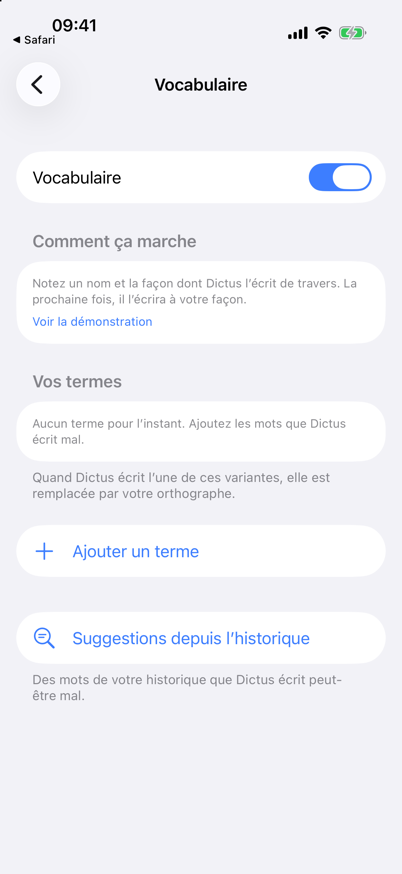
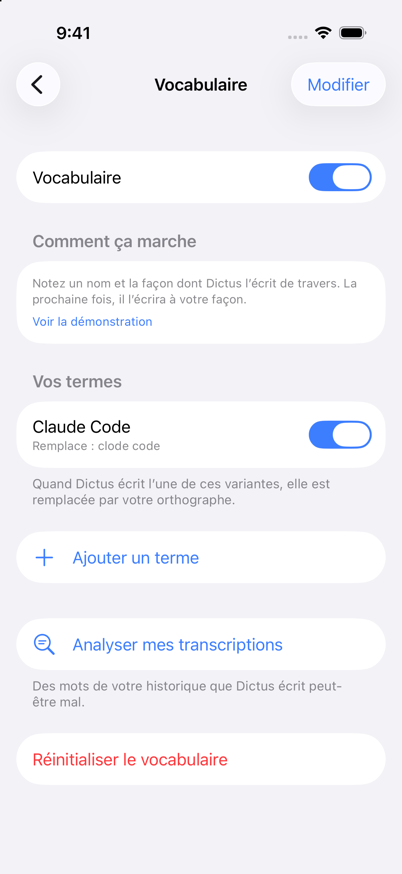
verify: map vocabulary suggestions and the review sheet (refs #512)
Card for #512 step 2 (PR #814): « Analyser mes transcriptions », the
« Variantes de vos termes » rows (cap at 5, Accepter / Modifier / Ignorer)
and the « Avant l'ajout » sheet, driven on a seeded History.

- features/vocabulary.md: sub-feature vocabulary.term-variants and its
  recipe; tap-id vocabulary.pair.accept and vocabulary.pair.review.confirm,
  a row-anchored tap for Modifier / Ignorer (no identifier, and the
  Vocabulaire toolbar repeats « Modifier »).
- screens.md: app.pro.vocabulary.suggestions, app.pro.vocabulary.pair-review,
  captures added; app.pro.vocabulary re-captured with the renamed button.
- README.md All IDs (110 sub-features, 55 screens, 183 IDs) and the
  SKILL.md shortlists.

diff --git a/.claude/skills/verify-dictus-ios/features/vocabulary.md b/.claude/skills/verify-dictus-ios/features/vocabulary.md
@@ -3,7 +3,7 @@
 - **ID:** `vocabulary`
 - **Tier:** Pro
 - **Targets:** DictusApp + DictusCore
-- **Screens:** `app.pro.vocabulary`, `app.onboarding.vocabulary-scene` — see [screens.md](screens.md)
+- **Screens:** `app.pro.vocabulary`, `app.pro.vocabulary.term-editor`, `app.pro.vocabulary.suggestions`, `app.pro.vocabulary.pair-review`, `app.onboarding.vocabulary-scene` — see [screens.md](screens.md)
 
 ## Sub-features
 
@@ -11,7 +11,8 @@
 - `vocabulary.edit`: Edit a term.
 - `vocabulary.delete`: Delete a term.
 - `vocabulary.reset`: « Réinitialiser le vocabulaire ».
-- `vocabulary.suggestions`: « Suggestions depuis l'historique »: words the user corrected, offered, never imposed.
+- `vocabulary.suggestions`: « Analyser mes transcriptions » opens « Suggestions depuis l'historique »: words the user corrected, offered, never imposed.
+- `vocabulary.term-variants`: the sheet's first section, « Variantes de vos termes » (#512 step 2): spans History wrote close to one of the user's terms (`cloud code` for `Claude Code`), seen in at least two dictations, at most 5 rows. Each row: « Accepter » opens « Avant l'ajout », which shows the term, its variants and the new one in green before « Ajouter » stores it; « Modifier » opens the term sheet with the variant filled in; « Ignorer » hides the row for good.
 - `vocabulary.apply`: Terms are applied to every transcription.
 - `vocabulary.toggle`: « Vocabulaire » on/off switch.
 
@@ -19,6 +20,7 @@
 
 1. With Pro, Dictus → Réglages → Dictus Pro → Vocabulaire.
 2. Tap « Ajouter un terme », type the word and how it comes out wrong, save.
+3. Tap « Analyser mes transcriptions »: the suggestions from History, variants of your terms first.
 
 ## Driving it with axe + Argent
 
@@ -34,7 +36,146 @@
 
 Type into the focused field with `axe type 'Dr Nguyen' --udid <udid>`.
 
+### Variants of your terms (`vocabulary.term-variants`)
+
+Nothing records: the vocabulary and History are written into the App Group container with the app stopped, the way PR #814 was checked. `seed` takes the terms (`term=variant,variant;…`) and the dictations (`text|text|…`), clears the ignore list, then relaunches the app in French, which reads them. `open_suggestions` goes from the tab bar to the sheet. `expect_rows <n>` counts the « Accepter » buttons on screen and fails on any other count.
+
+```bash
+export DICTUS_VERIFY_RUN=<run dir from the READY line>
+. "$DICTUS_VERIFY_RUN/run.env"
+D=.claude/skills/verify-dictus-ios/scripts/drive.sh
+E=.claude/skills/verify-dictus-ios/scripts/evidence.sh
+$D set-default dictus.debugProEntitlementForced -bool YES
+
+seed() {
+  xcrun simctl terminate "$UDID" com.pivi.dictus >/dev/null 2>&1 || true
+  python3 - "$GROUP_DIR" "$1" "$2" <<'PY'
+import datetime, json, sys, uuid
+group, terms, texts = sys.argv[1:]
+now = datetime.datetime.now(datetime.timezone.utc).replace(microsecond=0)
+iso = lambda d: d.isoformat().replace("+00:00", "Z")
+vocabulary = [{"id": str(uuid.uuid4()).upper(), "term": t.split("=")[0],
+               "variants": t.split("=")[1].split(","), "isEnabled": True, "dateAdded": iso(now)}
+              for t in terms.split(";")]
+history = [{"id": str(uuid.uuid4()).upper(), "text": text, "language": "fr", "durationSeconds": 5,
+            "createdAt": iso(now - datetime.timedelta(minutes=i)), "sttProvider": "PK"}
+           for i, text in enumerate(texts.split("|"))]
+json.dump(vocabulary, open(f"{group}/vocabulary.json", "w"), ensure_ascii=False)
+json.dump(history, open(f"{group}/transcription_history.json", "w"), ensure_ascii=False)
+PY
+  xcrun simctl spawn "$UDID" defaults delete \
+    "$GROUP_DIR/Library/Preferences/group.solutions.pivi.dictus.plist" dictus.vocabularySuggestionsIgnored 2>/dev/null || true
+  $D relaunch -AppleLanguages '(fr)' -AppleLocale fr_FR   # French UI on any device
+}
+open_suggestions() {
+  $D tab Réglages
+  $D tap-label "Dictus Pro, Pro actif"
+  $D tap-label "Vocabulaire, Apprenez à Dictus vos termes techniques, Activé"
+  $D wait-label "Vos termes"
+  # Below the terms: with several, the list renders the button only once scrolled to.
+  axe swipe --start-x 200 --start-y 700 --end-x 200 --end-y 200 --udid "$UDID" >/dev/null; sleep 1
+  $D tap-label "Analyser mes transcriptions"
+  $D wait-label "Variantes de vos termes" 10
+}
+# The row's « Modifier » and « Ignorer » have no identifier, and the Vocabulaire screen
+# under the sheet has its own « Modifier »: tap the one on the line of the row's
+# `vocabulary.pair.accept` (one row on screen, so that identifier is unique).
+tap_in_row() {
+  local xy
+  xy=$($D tree | python3 -c '
+import json, sys
+label = sys.argv[1]
+nodes = []
+def walk(n):
+    nodes.append(n)
+    for c in n.get("children") or []: walk(c)
+for r in json.load(sys.stdin): walk(r)
+accept = [n["frame"] for n in nodes if n.get("AXUniqueId") == "vocabulary.pair.accept"]
+assert len(accept) == 1, "%d rows on screen, expected 1" % len(accept)
+ay = accept[0]["y"] + accept[0]["height"] / 2
+hits = [n["frame"] for n in nodes if n.get("AXLabel") == label and n.get("type") == "Button"
+        and n["frame"]["y"] <= ay <= n["frame"]["y"] + n["frame"]["height"]]
+assert len(hits) == 1, "%d %r buttons on the row" % (len(hits), label)
+f = hits[0]
+print(round(f["x"] + f["width"] / 2), round(f["y"] + f["height"] / 2))' "$1") || return 1
+  axe tap -x "${xy% *}" -y "${xy#* }" --udid "$UDID" >/dev/null && echo "tapped row's $1 at $xy"
+}
+expect_rows() {
+  local n
+  n=$($D tree | python3 -c '
+import json, sys
+def walk(n):
+    return (n.get("AXUniqueId") == "vocabulary.pair.accept") + sum(walk(c) for c in n.get("children") or [])
+print(sum(walk(r) for r in json.load(sys.stdin)))')
+  [ "$n" = "$1" ] && echo "rows $n" || { echo "error: $n rows, expected $1" >&2; return 1; }
+}
+
+# 1. At most 5 rows: seven terms, each misheard (last letter doubled) in two dictations.
+T="" X=""
+for n in Zorvalix Kentrabo Plimdora Quastemi Brunzeta Vothrami Dashkelo; do
+  h=$(echo "$n" | tr '[:upper:]' '[:lower:]')${n: -1}
+  T="$T;$n=${h}z" X="$X|$h est lent|$h encore"
+done
+seed "${T#;}" "${X#|}"
+M=$($D log-mark)
+open_suggestions
+$D wait-log 'VocabularySuggestions .*termVariants=5' 10 "$M"
+expect_rows 5
+$E vocabulary-suggestions-cap
+
+# 2. Accept: one term, `cloud code` in three dictations.
+SEED_TERMS="Claude Code=clode code"
+SEED_TEXTS="cloud code est lent|on parle de cloud code|cloud code encore|le reste est bon|rien à signaler"
+seed "$SEED_TERMS" "$SEED_TEXTS"
+M=$($D log-mark)
+open_suggestions
+$D wait-log 'VocabularySuggestions .*termVariants=1' 10 "$M"
+$D wait-label "Écrit : cloud code"
+expect_rows 1
+$E vocabulary-suggestions
+$D tap-id vocabulary.pair.accept
+$D wait-label "Avant l’ajout"
+$D wait-label "Désormais, quand Dictus écrit « cloud code », il écrit « Claude Code » à la place."
+$E vocabulary-pair-review
+$D tap-label Annuler                                  # stores nothing
+$D gone-id vocabulary.pair.review.confirm
+if grep -q 'cloud code' "$GROUP_DIR/vocabulary.json"; then echo "error: stored on Annuler" >&2; false; else echo "not stored"; fi
+$D tap-id vocabulary.pair.accept
+$D tap-id vocabulary.pair.review.confirm              # « Ajouter »
+$D gone-id vocabulary.pair.accept                     # the row leaves the list
+python3 -c 'import json,sys; print(json.load(open(sys.argv[1]))[0]["variants"])' "$GROUP_DIR/vocabulary.json"
+# → ['clode code', 'cloud code']
+
+# 3. Edit, then Ignore, on the same row (seeded again, ignore list cleared).
+seed "$SEED_TERMS" "$SEED_TEXTS"
+open_suggestions
+tap_in_row Modifier
+$D wait-label "Déjà dans votre vocabulaire. Cette variante y sera ajoutée."
+$E vocabulary-pair-edit
+$D tap-label Annuler                                  # the row stays
+$D wait-id vocabulary.pair.accept
+tap_in_row Ignorer
+$D gone-id vocabulary.pair.accept
+ignored=no                                            # the defaults flush takes a moment
+for _ in 1 2 3 4 5 6 7 8 9 10; do
+  xcrun simctl spawn "$UDID" defaults read "$GROUP_DIR/Library/Preferences/group.solutions.pivi.dictus.plist" \
+    dictus.vocabularySuggestionsIgnored 2>/dev/null | grep -q 'pair:claude code|cloud code' && { ignored=yes; break; }
+  sleep 1
+done
+if [ "$ignored" = yes ]; then echo "ignored: pair:claude code|cloud code"; else echo "error: ignore not stored" >&2; false; fi
+$D tap-label OK                                       # close, open again: still hidden
+sleep 1; $E vocabulary-list                          # once the sheet has slid away
+$D tap-label "Analyser mes transcriptions"
+$D wait-label "Suggestions depuis l’historique"; sleep 2; expect_rows 0
+```
+
 ## Gotchas
 
 - **Not drivable in the simulator:** whether a term actually fixes a transcription (needs a recording). FluidAudio's vocabulary boosting is English-only; the French correction path is the post-pass.
-- Suggestions stay empty without history.
+- Suggestions stay empty without history. A seeded History proves the screens and the store writes, not whether real dictations produce rows worth adding: that go/no-go is on Pierre's iPhone, on his own History.
+- `vocabulary.pair.accept` is on **every** variant row, and « Modifier » / « Ignorer » have no identifier: `tap-id` refuses as soon as two rows are on screen. That is why steps 2 and 3 seed a single term; with several rows, only the cap is checked (by counting), and no row is tapped.
+- `tap-label Modifier` refuses even with one row: the Vocabulaire screen under the sheet keeps its toolbar « Modifier » in the tree. `tap_in_row` taps the button with that label on the line of the row's `vocabulary.pair.accept`, by its frame. It is a coordinate tap anchored on an identifier, and the first thing to replace if the rows get their own identifiers (e.g. `vocabulary.pair.edit`, `vocabulary.pair.ignore`).
+- The sheet still reads « Suggestions depuis l'historique »: only the Vocabulaire button was renamed « Analyser mes transcriptions ».
+- « Modifier » on a variant opens « Nouveau terme » with both fields filled and the footer « Déjà dans votre vocabulaire. Cette variante y sera ajoutée. »: saving adds the variant to the existing term, it does not create a second one.
+- In step 1, the sixth and seventh terms are past the cap: their spellings can come back lower down, in « Absents du dictionnaire, vus dans plusieurs dictées », which is step 1's miner and expected.
+- `seed` overwrites `vocabulary.json` and `transcription_history.json` and deletes the ignore list. That is harmless on the device `launch.sh` created for the run. On any other device (e.g. `Dictus Smoke`), copy the two files out first and put them back afterwards.

diff --git a/.claude/skills/verify-dictus-ios/SKILL.md b/.claude/skills/verify-dictus-ios/SKILL.md
@@ -177,7 +177,7 @@ Two lists. The first is what an agent proves alone with this skill; the second i
 | Typing | Suggestions, autocorrect on space, undo, accents, dead keys, learned words, reset | `typing.*`, `learned-words.*`, `kbd.suggestions` |
 | Keyboard surfaces | Languages panel, layouts, number row, 123 and `#+=` pages, emoji picker, recents, search | `keyboard.*`, `emoji.*`, `kbd.panel`, `kbd.numbers`, `kbd.symbols`, `kbd.emoji` |
 | Settings and switches | Every preference changes and persists through the App Group (sounds, haptics, polish, Live Activity, history, vocabulary, voice notes) | `sounds.toggle`, `sounds.volume`, `sounds.per-event`, `haptics.toggle`, `polish.toggle`, `live-activity.toggle`, `smart-modes.toggle`, `history.toggle`, `vocabulary.toggle`, `voice-notes.toggle` |
-| Pro, Debug-forced | Hub, Smart Mode pins, fan opening (greyed), vocabulary add/edit/delete, history and voice-note reader empty states | `pro.hub`, `smart-modes.fan`, `smart-modes.pin`, `vocabulary.add`/`edit`/`delete`/`reset`, `history.list` (empty), `voice-notes.reader` (empty) |
+| Pro, Debug-forced | Hub, Smart Mode pins, fan opening (greyed), vocabulary add/edit/delete, variants of your terms on a seeded History (accept with review, edit, ignore, cap at 5), history and voice-note reader empty states | `pro.hub`, `smart-modes.fan`, `smart-modes.pin`, `vocabulary.add`/`edit`/`delete`/`reset`, `vocabulary.term-variants`, `history.list` (empty), `voice-notes.reader` (empty) |
 | Models | Catalogue, download (real traffic), preparation screen, select, delete, retry, languages sheet; A12/A13 refusal on a device created as `iPhone-11` | `models.*` except the RAM halves of `models.device-gating` and `models.recommended`; `app.models.loading` (screen, not timing) |
 | Diagnostics | Log view, export sheet opens, App Group check (signed build) | `diagnostics.*` |
 
@@ -185,7 +185,7 @@ Two lists. The first is what an agent proves alone with this skill; the second i
 
 | Area | Why the simulator cannot prove it | IDs |
 | --- | --- | --- |
-| Real voice and microphone | A simulator records the Mac's input device: the room, or a synthesized `say` clip. A real voice, its accent and the text quality, and what depends on them (a filled history, the vocabulary effect, voice-note transcription) | `dictation.in-app`, `app.recording`, `history.detail`, `vocabulary.apply`, `voice-notes.transcribe` |
+| Real voice and microphone | A simulator records the Mac's input device: the room, or a synthesized `say` clip. A real voice, its accent and the text quality, and what depends on them (a filled history, the vocabulary effect, voice-note transcription) | `dictation.in-app`, `app.recording`, `history.detail`, `vocabulary.apply`, `vocabulary.term-variants` (rows from a real History), `voice-notes.transcribe` |
 | Audio routing | AirPods, Bluetooth headsets, wired input, route changes and interruptions mid-recording: the simulator has only the Mac's devices | `dictation.start`, `dictation.in-app`, `voice-notes.transcribe` |
 | Keyboard memory and jetsam | The extension's ~50 MB ceiling and its kills are device figures; simulator `memMB` carries no verdict | `dictation.keyboard`, `kbd.*` (memory only) |
 | Keyboard height and dead zones | The declared height constraint (#166) and touch dead zones | `kbd.keys` |

diff --git a/.claude/skills/verify-dictus-ios/features/screens.md b/.claude/skills/verify-dictus-ios/features/screens.md
@@ -37,8 +37,10 @@ Captures are in [`docs/agents/screens/`](../../../../docs/agents/screens/), one 
 | `app.pro.hub` | Dictus Pro hub | Pro on, Réglages → tap-label « Dictus Pro, Pro actif » | pro.subscription | [oui](../../../../docs/agents/screens/app.pro.hub.png) |
 | `app.pro.smart-modes` | Pro → Mode intelligent (pinned modes) | hub → « Mode intelligent, … » | smart-modes | [oui](../../../../docs/agents/screens/app.pro.smart-modes.png) |
 | `app.pro.history` | Pro → Historique (switch, demo) | hub → « Historique, … » | history | [oui](../../../../docs/agents/screens/app.pro.history.png) |
-| `app.pro.vocabulary` | Pro → Vocabulaire (terms, suggestions) | hub → « Vocabulaire, … » | vocabulary | [oui](../../../../docs/agents/screens/app.pro.vocabulary.png) |
+| `app.pro.vocabulary` | Pro → Vocabulaire (terms, « Analyser mes transcriptions ») | hub → « Vocabulaire, … » | vocabulary | [oui](../../../../docs/agents/screens/app.pro.vocabulary.png) |
 | `app.pro.vocabulary.term-editor` | « Nouveau terme » sheet | Vocabulaire → « Ajouter un terme » | vocabulary | non |
+| `app.pro.vocabulary.suggestions` | « Suggestions depuis l'historique » sheet, « Variantes de vos termes » first (Accepter / Modifier / Ignorer) | Vocabulaire → « Analyser mes transcriptions » (seeded History, see vocabulary) | vocabulary | [oui](../../../../docs/agents/screens/app.pro.vocabulary.suggestions.png) |
+| `app.pro.vocabulary.pair-review` | « Avant l'ajout » sheet: the term, its variants, the new one in green | suggestions → tap-id vocabulary.pair.accept | vocabulary | [oui](../../../../docs/agents/screens/app.pro.vocabulary.pair-review.png) |
 | `app.pro.voice-notes` | Pro → Messages vocaux (language, after transcription) | hub → « Messages vocaux, … » | voice-notes | [oui](../../../../docs/agents/screens/app.pro.voice-notes.png) |
 | `app.paywall` | Paywall (plans and prices) | Accueil → « Débloquez Dictus Pro, … » (no trial running); prices need simslim's `store` category, see pro.subscription Gotchas | pro.subscription | [oui](../../../../docs/agents/screens/app.paywall.png) |
 | `app.pro.trial-announcement` | Reverse-trial announcement sheet | « C'est prêt » → « Commencer » on a fresh install (`kind=newUser`); or Réglages → Developer → « Forget the trial » + « Forget What's new », relaunch, end of What's new (`kind=existingUser`) | pro.subscription | [oui](../../../../docs/agents/screens/app.pro.trial-announcement.png) |

diff --git a/.claude/skills/verify-dictus-ios/features/README.md b/.claude/skills/verify-dictus-ios/features/README.md
@@ -31,7 +31,7 @@ Out of the map on purpose: the "Developer" section of Réglages (Debug builds on
 
 ## All IDs
 
-Every ID in this map, in one table: the 18 features first, then their 109 sub-features (in the order of the feature files), then the 53 screens of [screens.md](screens.md) — 180 IDs in all. **Gratuit/Pro** is the tier of the feature the ID belongs to. **Spécifique iOS** is « oui » when the ID has no Android equivalent to compare against: the keyboard-to-app hand-off and Full Access (an iOS keyboard extension cannot record and must ask for Full Access), return to the host app, Apple Intelligence (polish), the Dynamic Island (Live Activity, stopping standby), and the App Group check.
+Every ID in this map, in one table: the 18 features first, then their 110 sub-features (in the order of the feature files), then the 55 screens of [screens.md](screens.md) — 183 IDs in all. **Gratuit/Pro** is the tier of the feature the ID belongs to. **Spécifique iOS** is « oui » when the ID has no Android equivalent to compare against: the keyboard-to-app hand-off and Full Access (an iOS keyboard extension cannot record and must ask for Full Access), return to the host app, Apple Intelligence (polish), the Dynamic Island (Live Activity, stopping standby), and the App Group check.
 
 | ID | Gratuit/Pro | Spécifique iOS |
 | --- | --- | --- |
@@ -100,6 +100,7 @@ Every ID in this map, in one table: the 18 features first, then their 109 sub-fe
 | `vocabulary.delete` | Pro | non |
 | `vocabulary.reset` | Pro | non |
 | `vocabulary.suggestions` | Pro | non |
+| `vocabulary.term-variants` | Pro | non |
 | `vocabulary.apply` | Pro | non |
 | `vocabulary.toggle` | Pro | non |
 | `voice-notes.share-in` | Pro | non |
@@ -195,6 +196,8 @@ Every ID in this map, in one table: the 18 features first, then their 109 sub-fe
 | `app.pro.history` | Pro | non |
 | `app.pro.vocabulary` | Pro | non |
 | `app.pro.vocabulary.term-editor` | Pro | non |
+| `app.pro.vocabulary.suggestions` | Pro | non |
+| `app.pro.vocabulary.pair-review` | Pro | non |
 | `app.pro.voice-notes` | Pro | non |
 | `app.paywall` | Pro | non |
 | `app.pro.trial-announcement` | Pro | non |
